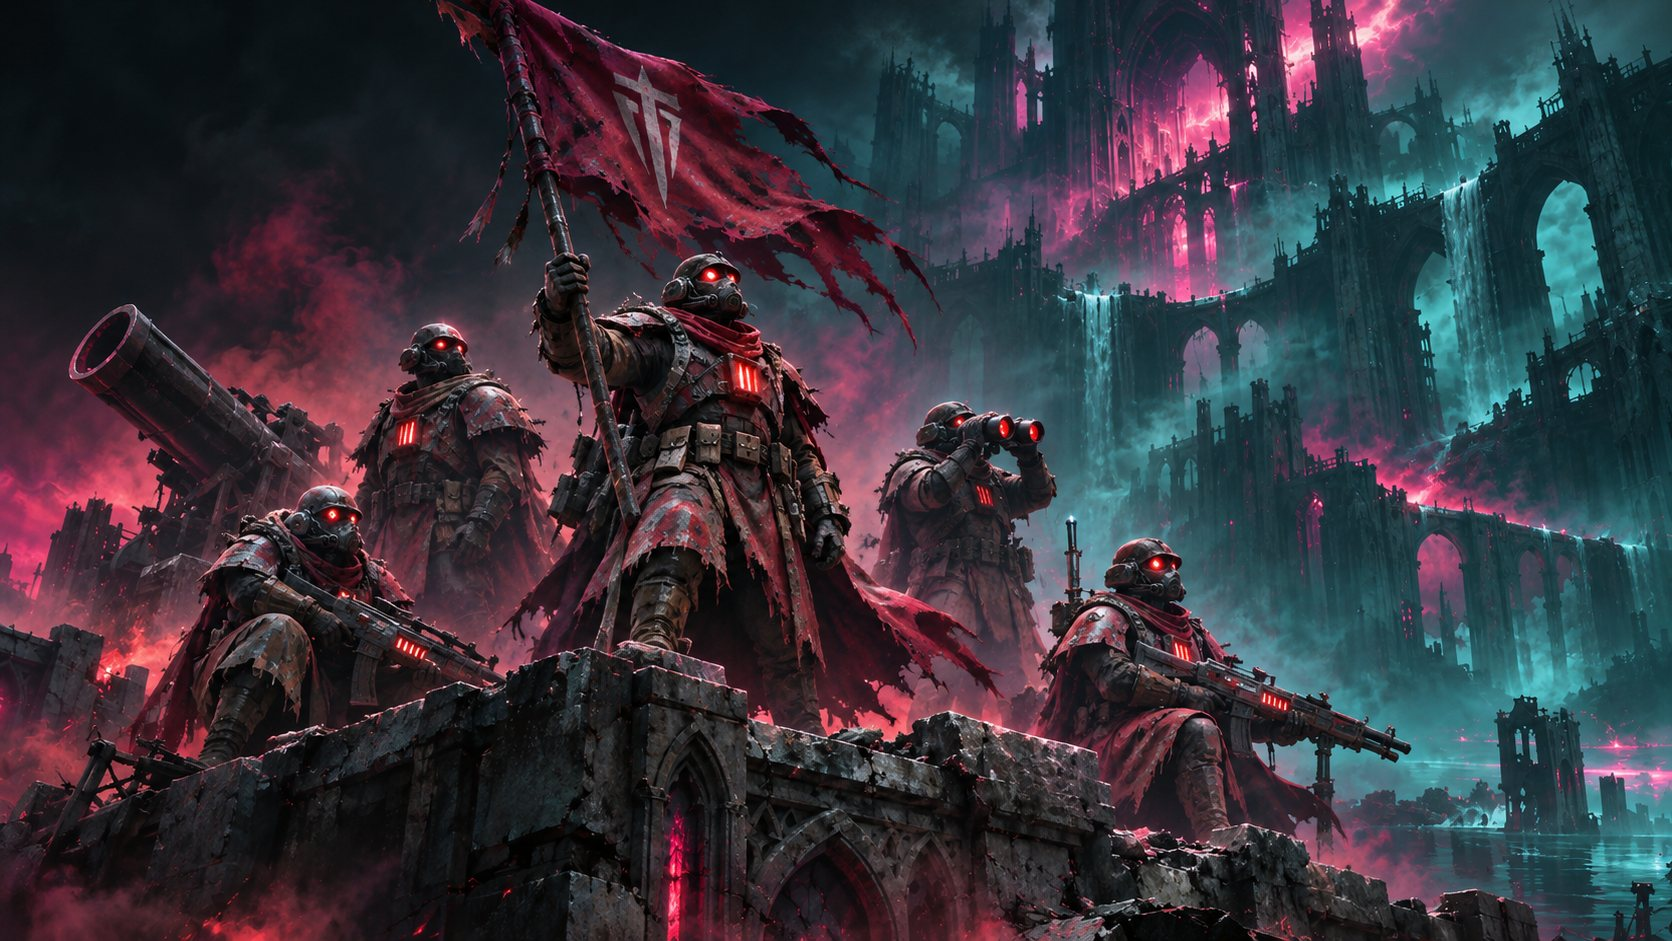
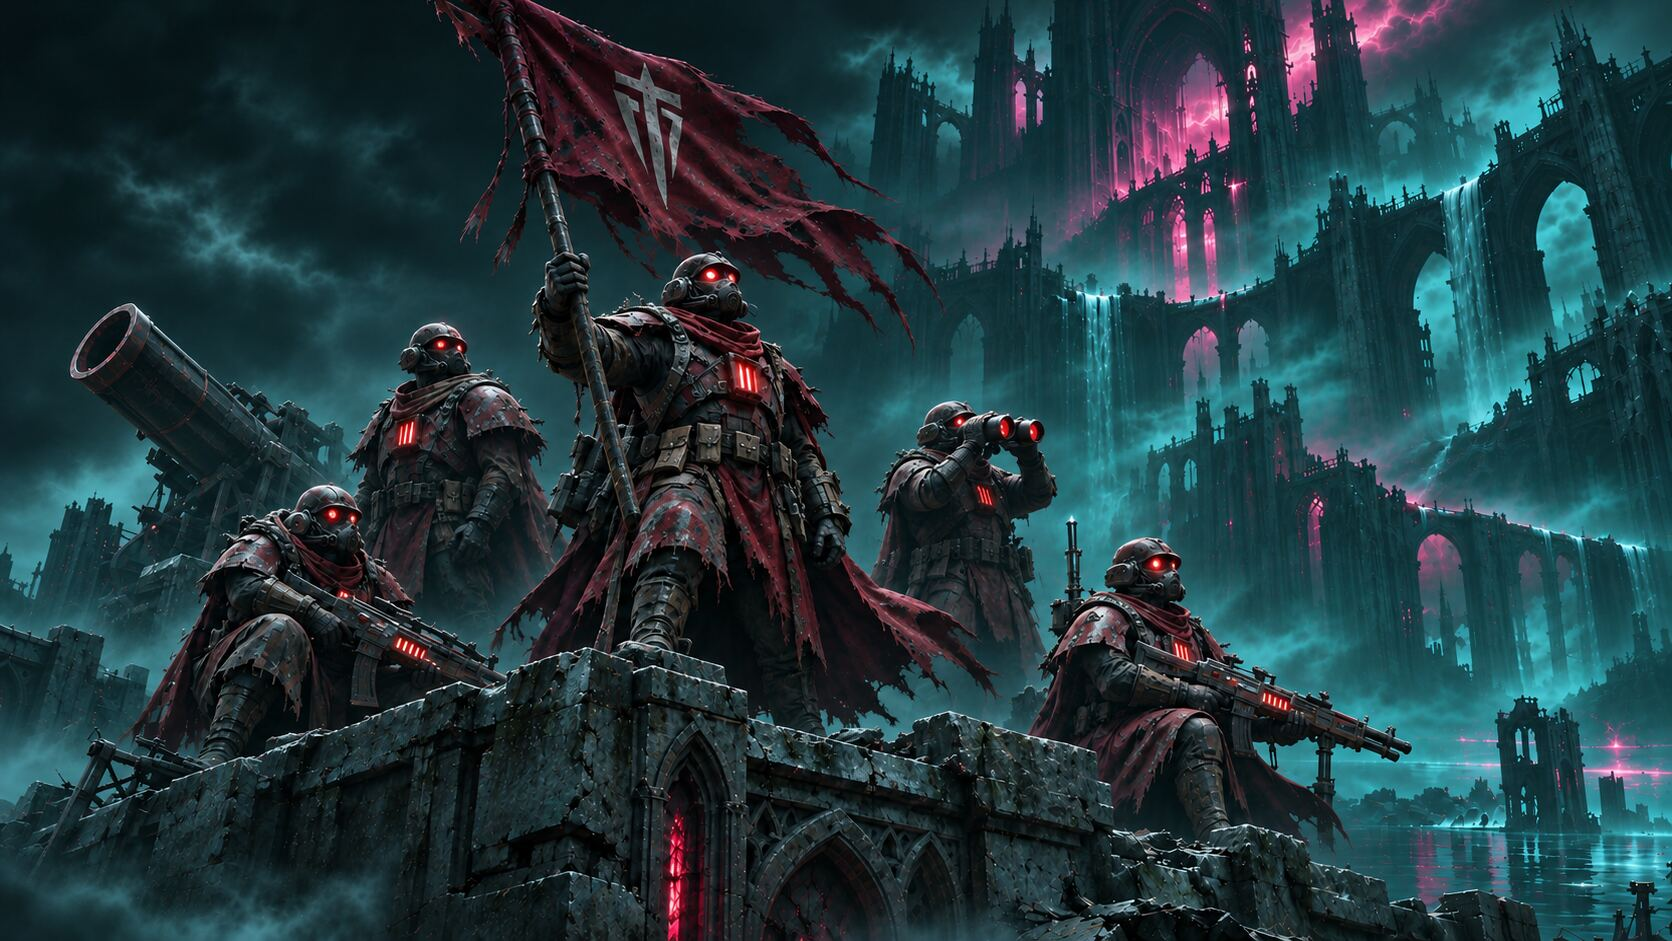
End screen: new Ash Legion victory art
Claude-Session: https://claude.ai/code/session_017NkEkZHex4PwPUeohQW6nD

diff --git a/docs/LOG.md b/docs/LOG.md
@@ -6,6 +6,9 @@ One shared log for everyone: Jarred, Claude, ChatGPT and the Forge. Whatever you
 
 ---
 
+## 2026-11-15 · Claude · New Ash Legion victory art
+- The first Ash Legion win had red haze over the whole scene, so the troopers blended into it and it ran hotter than the other factions' art. Jarred's replacement keeps the colour on cloth, lenses and banner with a cyan world around them, matching the set. Same file, `assets/end/ash-win.jpg` (1672×941). No code change.
+
 ## 2026-11-15 · Codex · Three layered set-piece drafts saved
 - Jarred approved the current look and asked to ship the batch. Saved K20 Collapsed Nave, K21 Broken Belfry (open rear arches), and K26 Rib Vault Bay as editable Body + Back drafts in the shared Forge library: [art/weapon-lab commit](https://github.com/Astrosomnia/Grimspire/commit/2085342ad10221ba0f35eb2f5ede1477c01c8903).
 - Checked appearance in local game previews and confirmed the saves in Forge; 66 Forge checks passed. The files remain drafts (not marked ready). Height is unauthored, Guts is provisional, and stair traversal, shooting, blasts and destruction still need gameplay testing. No game release made.
